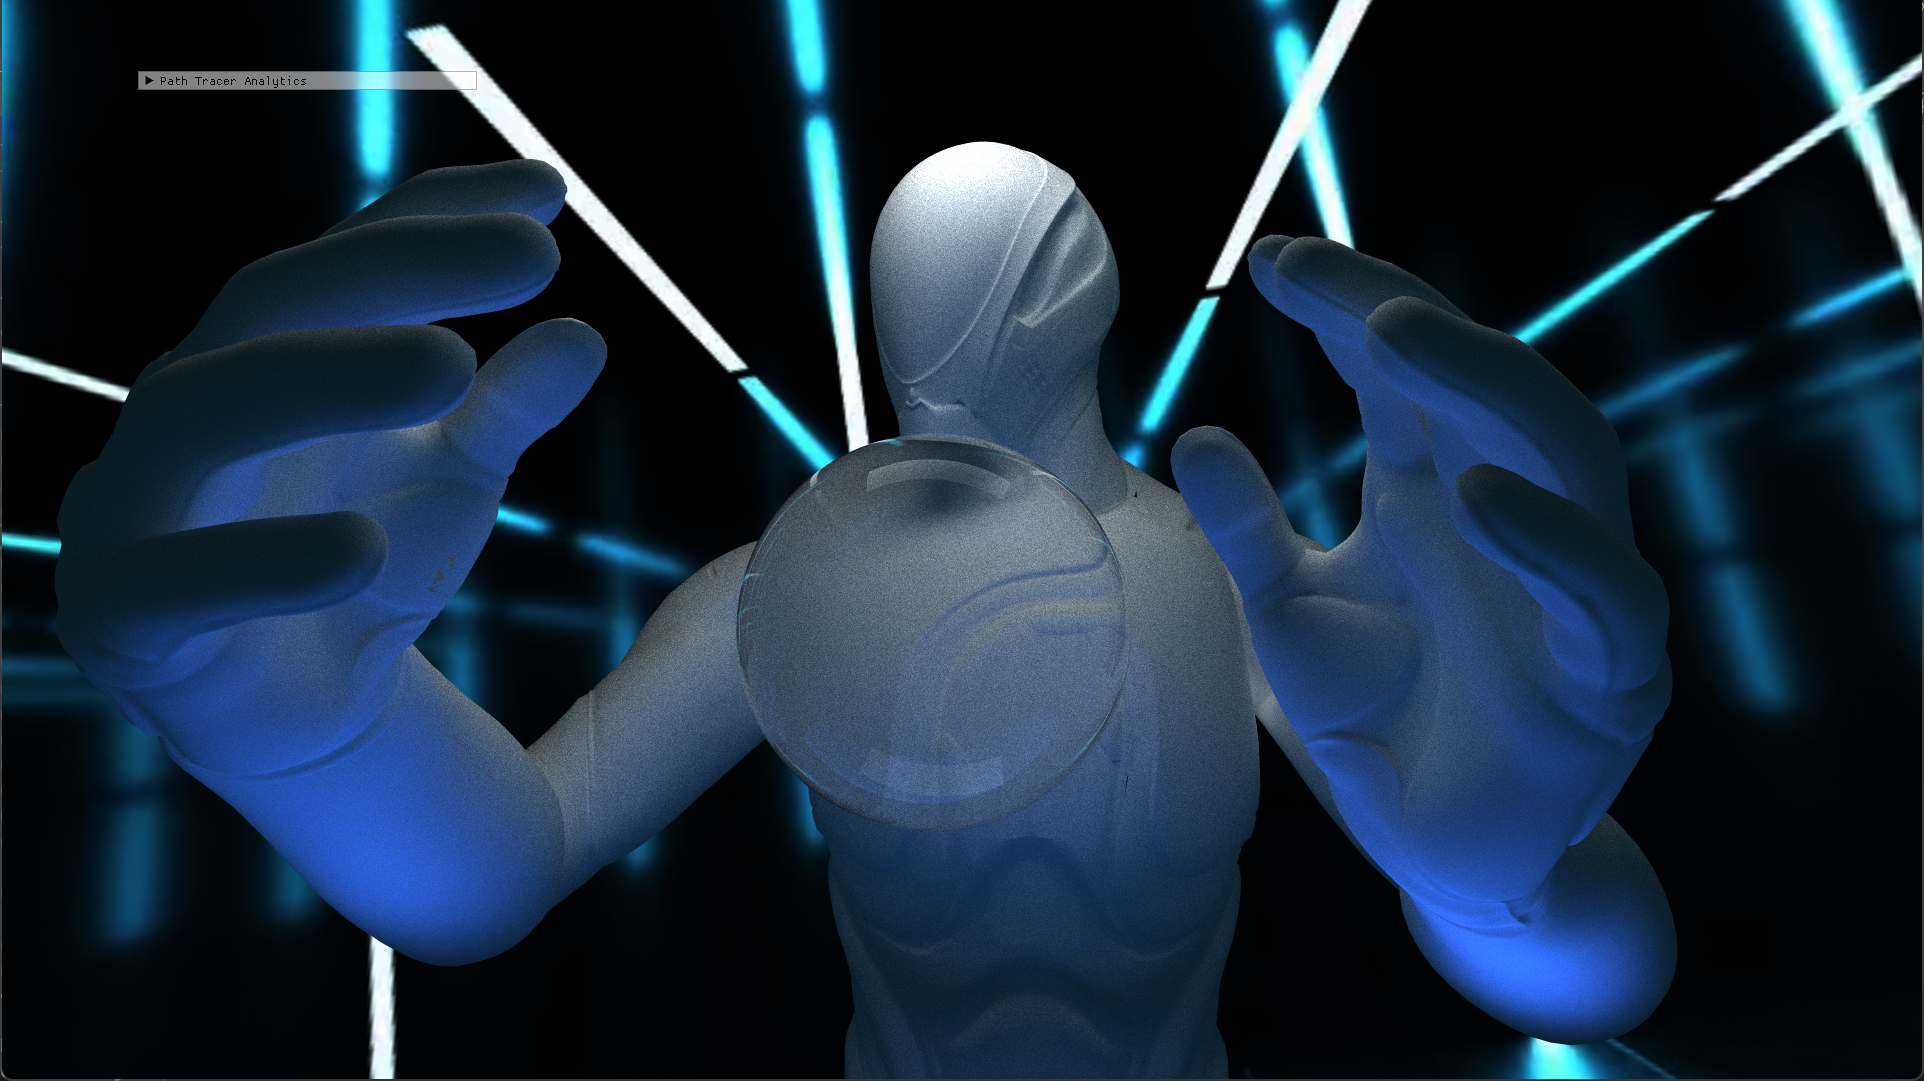
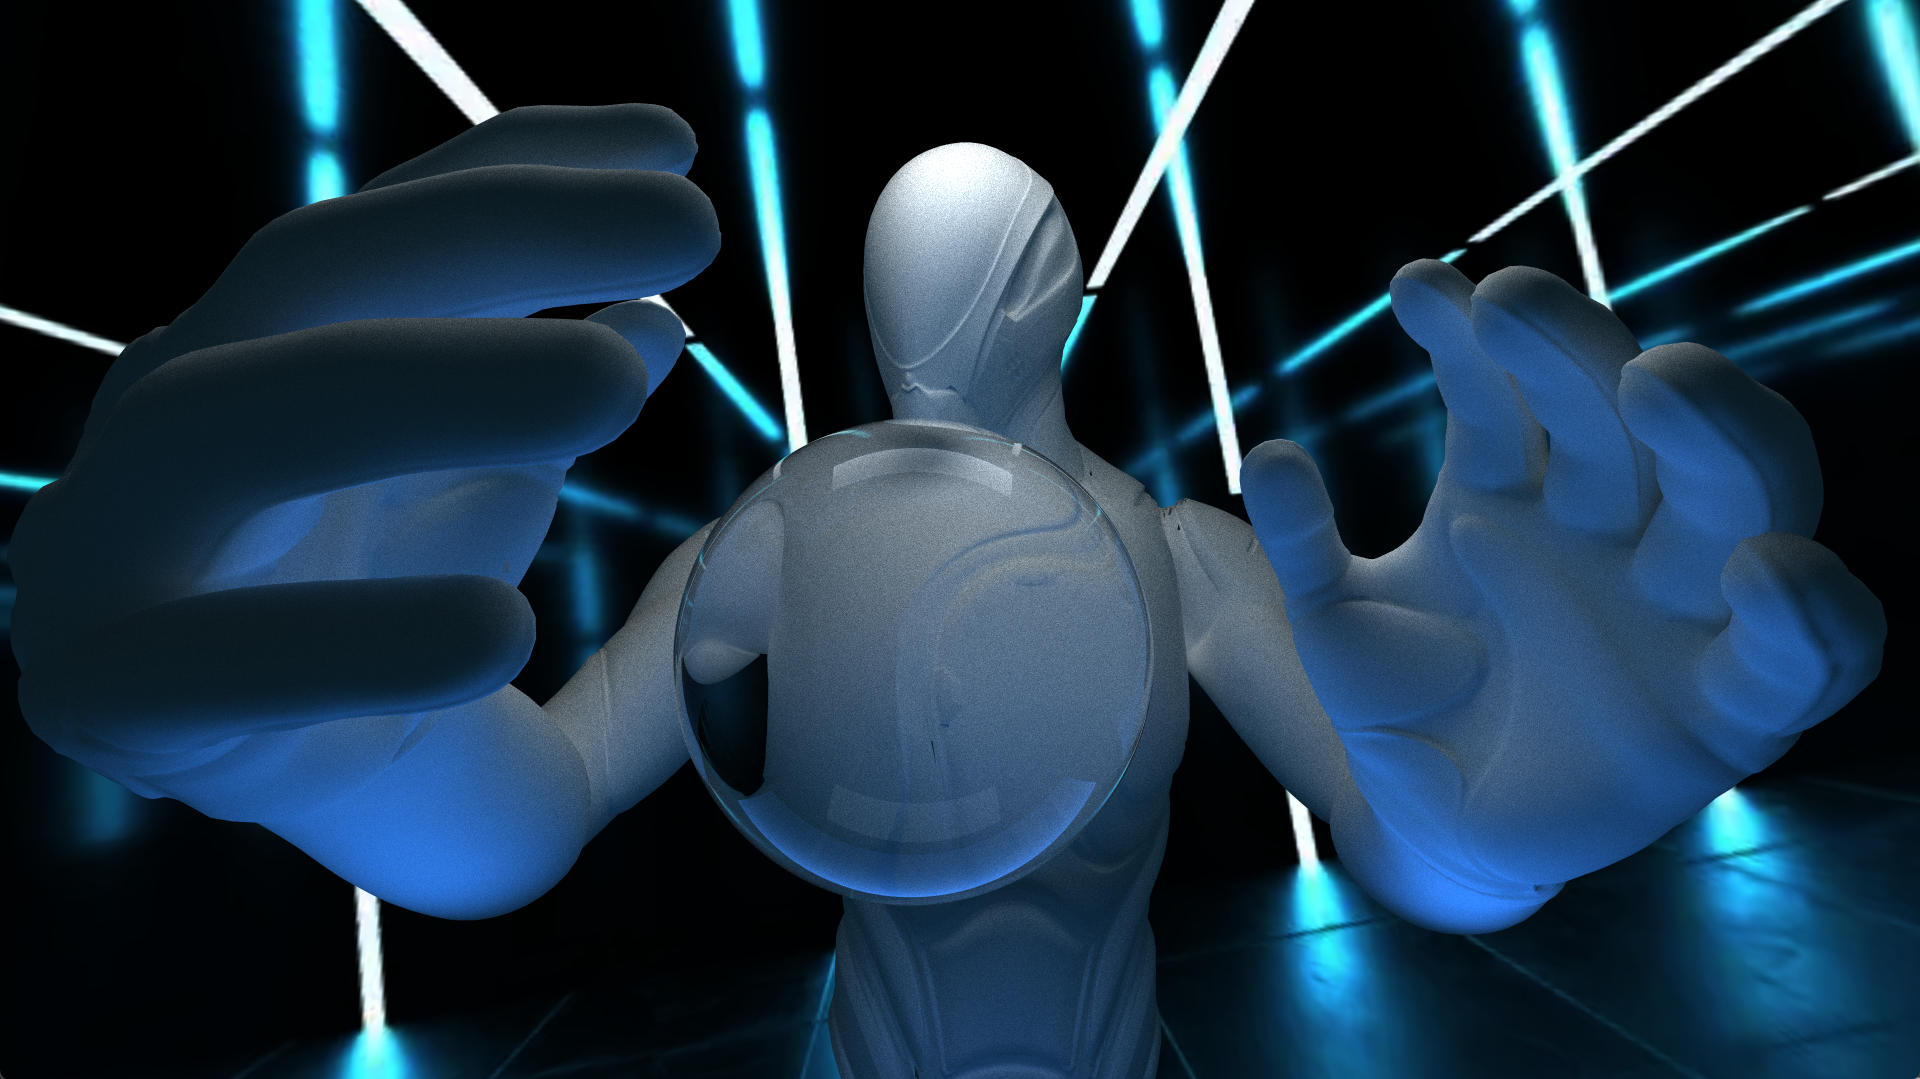
ReadMe modify

diff --git a/README.md b/README.md
@@ -1,28 +1,93 @@
 CUDA Path Tracer
 ================
-![HeadPage](img/Head.png)
 
 **University of Pennsylvania, CIS 565: GPU Programming and Architecture, Project 3**
 
 * Jiangman(Lobi) Zhao
   * [Lobi Zhao - LinkedIn](https://www.linkedin.com/in/lobizhao/), [Lobi Zhao - personal website](https://lobizhao.github.io/).
 * Tested on: Windows 11 Pro, i5-10600KF @ 4.10GHz 32GB, RTX 3080 10GB
-### Part 1
-#### Performance
-#### analysis
-### Part 2
-#### Material 
-#### Geometry
-#### Env
-#### Camera
-Depth of field
+
+
+![HeadPage](img/Head.png)
+<center>Unreal Engine Animation show case - 'SKM_Manny.obj'</center> 
+
+
+
+## Part 1
+### Basic BSDF
+![Basic BSDF](img/basicBsdf.png)
+<center>'Suzanne.obj'</center> 
+Implemented a unified shading kernel supporting multiple material types.
+-  BSDF Evaluation Shading Kernel 
+```
+__global__ void shadeMaterial_with_BSDF()
+...
+__host__ __device__ void scatterRay()
+```
+
+### Material Sorting
+- Material-based Memory Contiguity
+```
+Purpose: Reduce GPU warp divergence by grouping rays with same material types.
+
+Controlled by #define SORT_MATERIAL for easy performance comparison.
+
+Implementation: thrust::stable_sort_by_key sorts paths by material ID before shading.
+```
+### Stochastic Antialiasing
 <table>
   <tr>
-    <td><img src="img/Part2_01.png"block size 128 chart 1"></td>
+    <td><img src="img/withoutAA.png"block size 128 chart 1"></td>
+    <td><img src="img/withAA.png" alt="block size 128 chart 2"></td>
+  </tr>
+</table>
+- Implemented sub-pixel sampling for edge smoothing
+
+```
+Control: Enabled via #define ANTI_ALIASING 1
+
+Implementation: u01(rng) generates random offsets in [0,1) range for ray generation
+```
+
+### analysis
+## Part 2
+#### Refraction
+![Part 1 Reflection](img/Part2_01.png)
+<center>'cornell_suzanne.json'</center> 
+
+- Implemented physically accurate refraction for transparent materials like glass
+
+```
+ Entry/Exit Detection: bool entering = cosTheta > 0
+ Schlick Fresnel Approximation: Implemented schlickFresnel() function
+ Total Internal Reflection: if (glm::length(refracted) < 0.001f)
+ Material Configuration: JSON "TYPE": "Refractive" support
+```
+#### Camera
+- Depth of field
+<table>
+  <tr>
+    <td><img src="img/Part2_03.png"block size 128 chart 1"></td>
     <td><img src="img/part2_02.png" alt="block size 128 chart 2"></td>
   </tr>
 </table>
+<center>'cornell_suzanne.json，'</center> 
+<center>"LENS_RADIUS" and "FOCAL_DISTANCE"</center> 
 
+```
+#if DEPTH_OF_FIELD
+    // compute focal point
+    glm::vec3 focalPoint = cam.position + cam.focalDistance * rayDir;
+    
+    float theta = u01(rng) * 2.0f * 3.14159265f;
+    float r = cam.lensRadius * sqrt(u01(rng));
+    glm::vec3 lensOffset = r * (cos(theta) * cam.right + sin(theta) * cam.up);
+  
+    segment.ray.origin = cam.position + lensOffset;
+    segment.ray.direction = glm::normalize(focalPoint - segment.ray.origin);
+```
+#### Geometry
+#### Env
 #### Performance
 - Stream Compaction
 <table>
@@ -31,6 +96,7 @@ Depth of field
     <td><img src="img/uncover.png" alt="block size 128 chart 2"></td>
   </tr>
 </table>
+
 
 **Path Termination Detection** 
 
